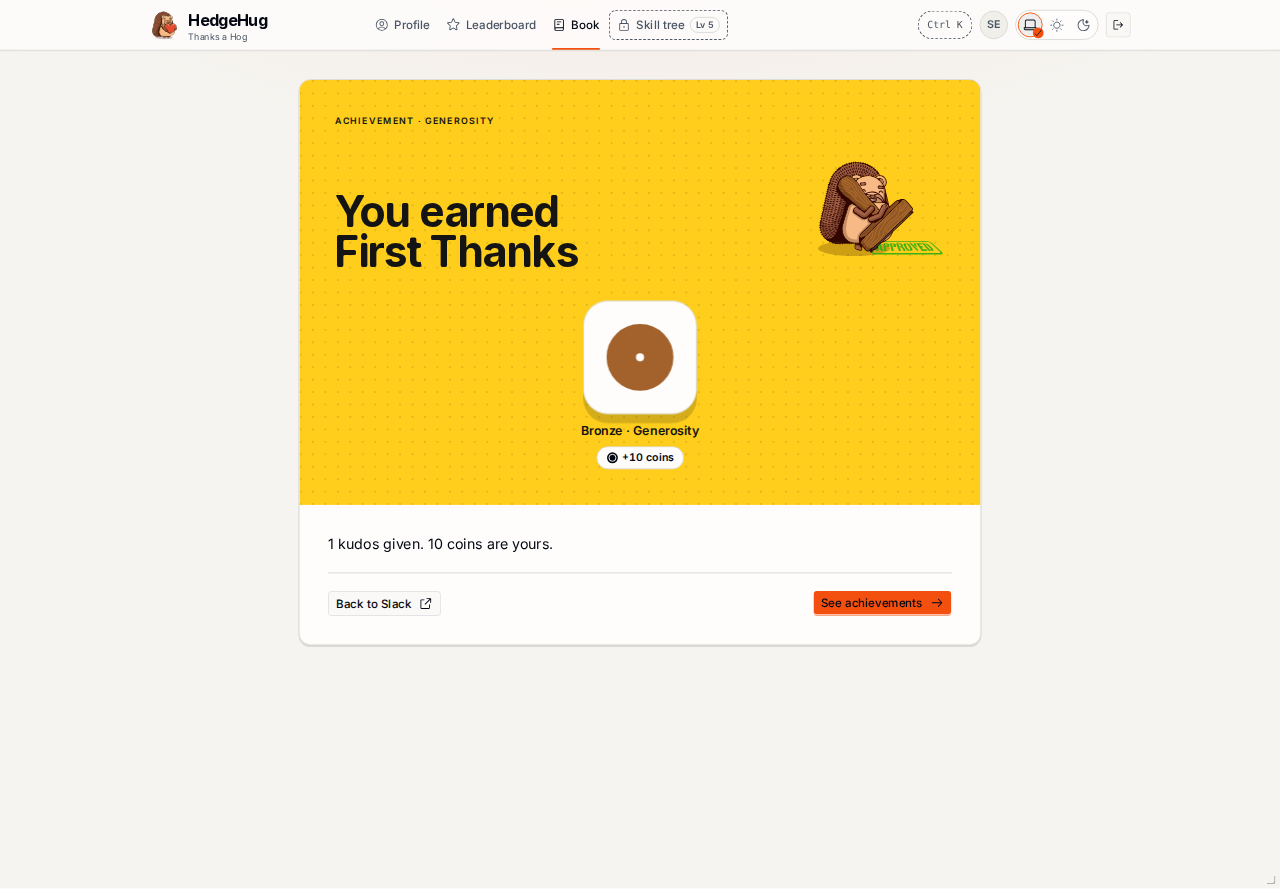
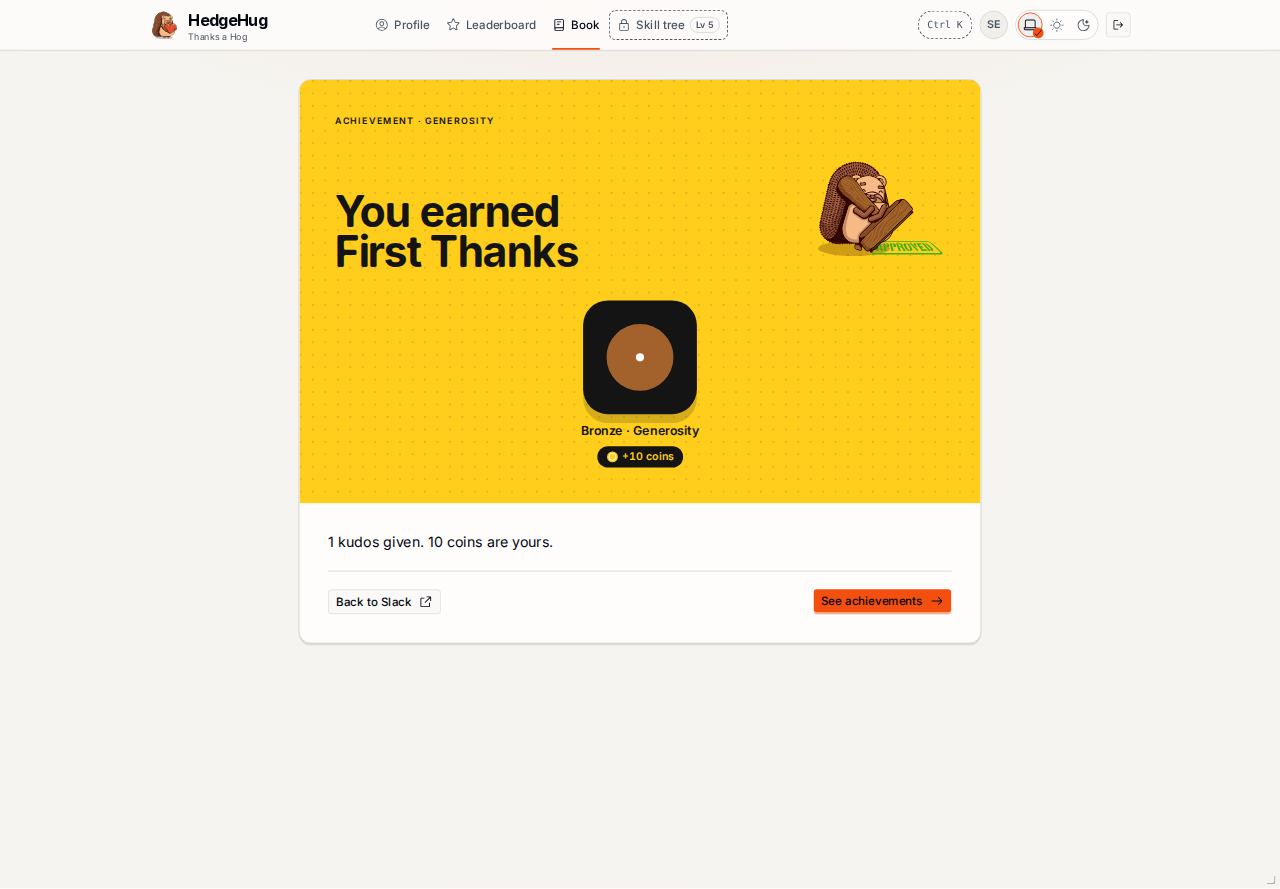
Seat the earned medal and reward on E's night plaque, 3:1 on lemon (#297 Fable spot check)

diff --git a/website/src/tierRewards.test.tsx b/website/src/tierRewards.test.tsx
@@ -11,6 +11,22 @@ import { fakeSystemTheme, preferWideScreen } from "./test/systemTheme";
 
 const firstThanksAt = Date.parse("2026-10-13T22:30:00Z");
 
+const siteCss = readFileSync(join(__dirname, "index.css"), "utf8");
+
+function hexIn(css: string, token: string) {
+  return new RegExp(`--${token}: (#[0-9a-f]{6});`).exec(css)![1]!;
+}
+
+function luminance(colour: string) {
+  const [r, g, b] = [1, 3, 5].map((at) => parseInt(colour.slice(at, at + 2), 16) / 255).map((c) => (c <= 0.04045 ? c / 12.92 : ((c + 0.055) / 1.055) ** 2.4));
+  return 0.2126 * r! + 0.7152 * g! + 0.0722 * b!;
+}
+
+function contrast(one: string, other: string) {
+  const [a, b] = [luminance(one), luminance(other)];
+  return (Math.max(a, b) + 0.05) / (Math.min(a, b) + 0.05);
+}
+
 beforeEach(() => {
   fakeSystemTheme(false);
   localStorage.clear();
@@ -160,16 +176,17 @@ describe("WS347: the achievement-earned page", () => {
     expect(css).not.toMatch(/infinite/);
   });
 
-  it("keeps the band's words at 4.5:1 on E's lemon", () => {
-    const site = readFileSync(join(__dirname, "index.css"), "utf8");
-    const hex = (token: string) => new RegExp(`--${token}: (#[0-9a-f]{6});`).exec(site)![1]!;
-    const luminance = (colour: string) => {
-      const [r, g, b] = [1, 3, 5].map((at) => parseInt(colour.slice(at, at + 2), 16) / 255).map((c) => (c <= 0.04045 ? c / 12.92 : ((c + 0.055) / 1.055) ** 2.4));
-      return 0.2126 * r! + 0.7152 * g! + 0.0722 * b!;
-    };
-    const [ink, lemon] = [luminance(hex("band-lemon-ink")), luminance(hex("band-lemon"))];
-    expect((Math.max(ink, lemon) + 0.05) / (Math.min(ink, lemon) + 0.05)).toBeGreaterThanOrEqual(4.5);
+  it("keeps the band's words, the plaque and the reward pill at 4.5:1 on E's lemon", () => {
+    expect(contrast(hexIn(siteCss, "band-lemon-ink"), hexIn(siteCss, "band-lemon"))).toBeGreaterThanOrEqual(4.5);
+    expect(readFileSync(join(__dirname, "book", "earned.css"), "utf8")).toMatch(/\.earned-plaque \{\s*background-color: var\(--band-lemon-ink\);[\s\S]*\.earned-pill \{\s*background-color: var\(--band-lemon-ink\);\s*color: var\(--band-lemon\);/);
   });
+
+  for (const [mode, selector] of [["light", ":root"], ["dark", ".dark"]] as const) {
+    it.each(["bronze", "silver", "gold", "diamond"])(`keeps the %s medal at 3:1 on the plaque's ink in ${mode}`, (tier) => {
+      const block = siteCss.slice(siteCss.indexOf(`${selector} {`), siteCss.indexOf("}", siteCss.indexOf(`${selector} {`)));
+      expect(contrast(hexIn(block, `medal-${tier}`), hexIn(siteCss, "band-lemon-ink"))).toBeGreaterThanOrEqual(3);
+    });
+  }
 });
 
 describe("WS339: tier rewards and the earned page pass axe in light and dark", () => {

diff --git a/website/src/book/EarnedPage.tsx b/website/src/book/EarnedPage.tsx
@@ -56,7 +56,7 @@ function EarnedMoment({ earned, chatUrl }: { earned: Shelved[]; chatUrl: string 
 function EarnedTier({ entry: { ladder, tier } }: { entry: Shelved }) {
   return (
     <li className="flex flex-col items-center gap-2 text-center">
-      <span className="earned-plaque grid size-28 place-items-center rounded-[28px] border bg-card sm:size-32">
+      <span className="earned-plaque grid size-28 place-items-center rounded-[28px] sm:size-32">
         <span className="earned-stamp inline-flex">
           <Medal tier={tier.tier} earned size={84} />
         </span>
@@ -64,7 +64,7 @@ function EarnedTier({ entry: { ladder, tier } }: { entry: Shelved }) {
       <span className="text-sm font-semibold">{`${tierWords[tier.tier]} · ${ladder.name}`}</span>
       {tier.rewards.length > 0 && (
         <span className="earned-reward flex flex-wrap justify-center gap-2">
-          <RewardGains rewards={tier.rewards} className="rounded-full border bg-card px-2.5 py-1 text-xs font-semibold tabular-nums text-card-foreground" />
+          <RewardGains rewards={tier.rewards} className="earned-pill rounded-full px-2.5 py-1 text-xs font-semibold tabular-nums" />
         </span>
       )}
     </li>

diff --git a/website/src/book/earned.css b/website/src/book/earned.css
@@ -19,7 +19,13 @@
 }
 
 .earned-plaque {
+  background-color: var(--band-lemon-ink);
   box-shadow: 0 10px 0 rgb(20 20 20 / 0.18);
+}
+
+.earned-pill {
+  background-color: var(--band-lemon-ink);
+  color: var(--band-lemon);
 }
 
 @media (prefers-reduced-motion: no-preference) {

diff --git a/website/proof/tier-rewards/README.md b/website/proof/tier-rewards/README.md
@@ -31,10 +31,11 @@ These screenshots come from the fixture build (`VITE_SHELL_FIXTURE=member-with-t
 - **Screen-reader wording:** the page title is `You earned First Thanks`, and the list `Tiers earned` reads `Bronze · Generosity` and `+10 coins`. A ladder tier reads `Reward: 10 coins`. A shelf entry's name ends `, reward 10 coins`.
 - **Contrast:**
   - The band ink `#141414` on lemon `#ffce1c` is about 12:1, measured by a test.
-  - Medals sit on a card-coloured plaque, and the existing metal tests prove 3:1 against the card in both modes.
+  - Medals sit on E's night plaque (`--band-lemon-ink`), and the reward pill is lemon on that ink. A test proves 3:1 for every metal on the ink, in light and dark.
   - The coin glyph is drawn in muted-foreground on the card, about 7:1 in light and dark.
 - **axe:** the earned page, a category page with reward lines and the shelf pass axe in light and dark (`tierRewards.test.tsx`).
 
 ## Reviews
 
 - `review-round-1.md`: GPT-6.1 Sol, one finding, rejected with its reason (the tier DM's link is map #1's).
+- `fable-spot-check.md`: Fable 5.1, ship with fixes. The must-fix is fixed: the plaque and pill were white on lemon at about 1.5:1, and are now on the night ink. The polish items were skipped, each with its reason.

diff --git a/website/proof/tier-rewards/fable-spot-check.md b/website/proof/tier-rewards/fable-spot-check.md
@@ -1,0 +1,10 @@
+# Fable 5.1 design spot check (read-only, light, dark and 390 px beside variant E)
+
+**Verdict: ship with fixes.**
+
+1. **Must-fix, V24 contrast: fixed.** In light mode, the plaque and the `+10 coins` pill were white on lemon, about 1.5:1. Both now use `--band-lemon-ink`, E's night plaque, in both themes, and the pill's text is lemon. A test checks the CSS and proves 3:1 for every metal on the ink.
+2. **Polish, the medal reads as a button: skipped.** The page uses the Book's own `Medal`, the one every tier cell and the shelf use (WS94, V16). A bigger ring at 84 px would add a second medal language. Left for a design pass on `Medal` itself.
+3. **Polish, the shelf wraps at 390 px: skipped.** The stacked tier and date on narrow screens is #290's accepted layout (its own Fable round asked for it). The reward line follows that entry's height.
+4. **Polish, the kicker's tone: skipped.** A muted ink on lemon needs its own contrast proof. The kicker stays in the band's ink, at about 12:1.
+
+D2, the reduced-motion gate, the once-per-tier keys and the absence of loops were checked and found fine.
